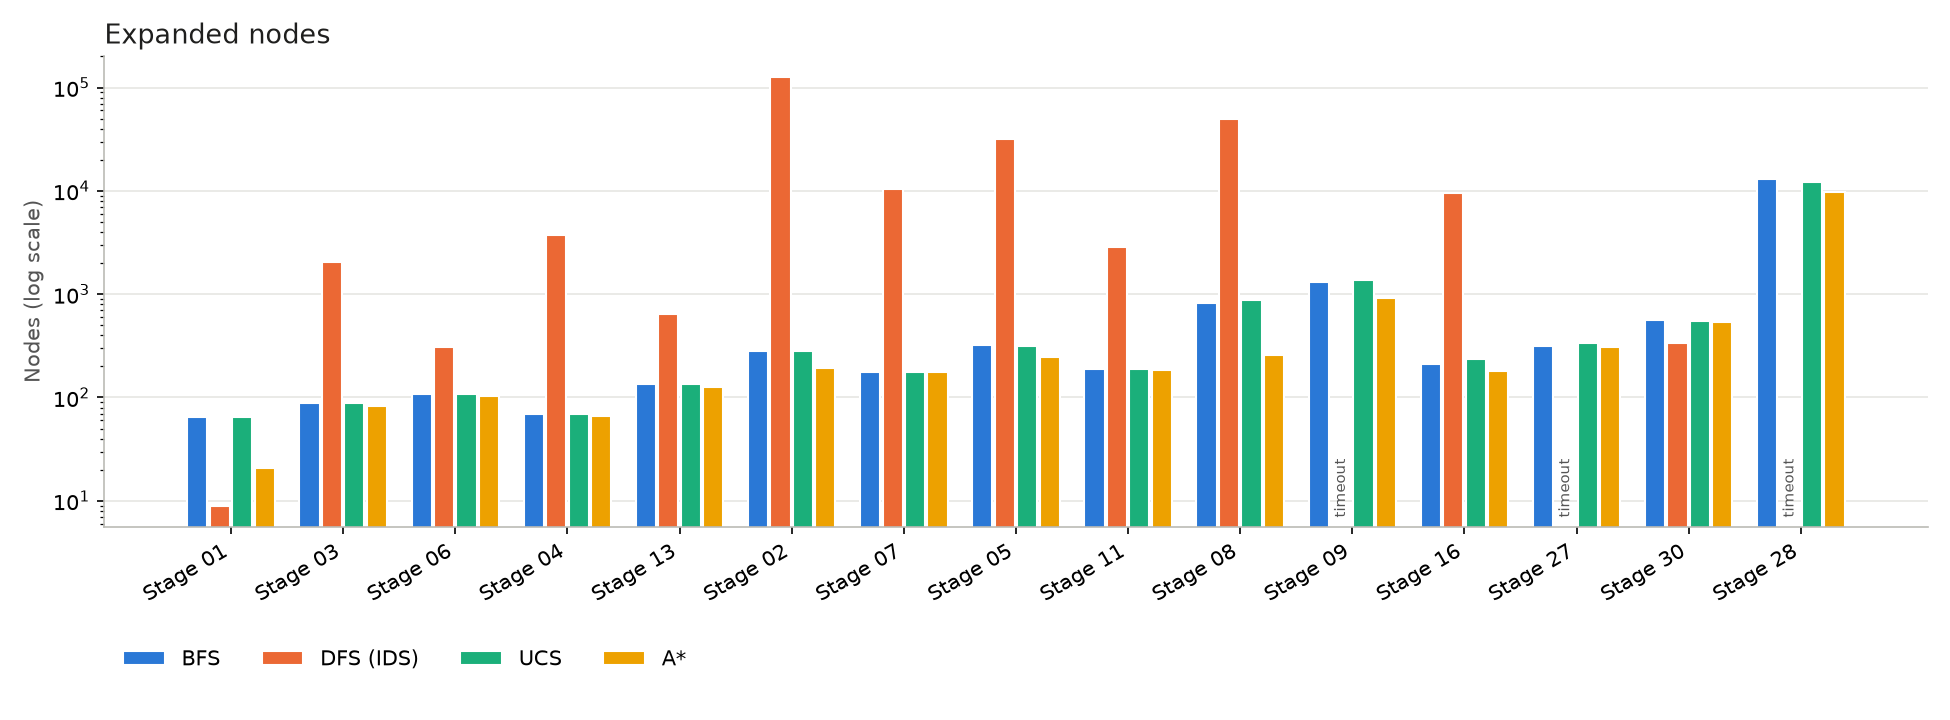
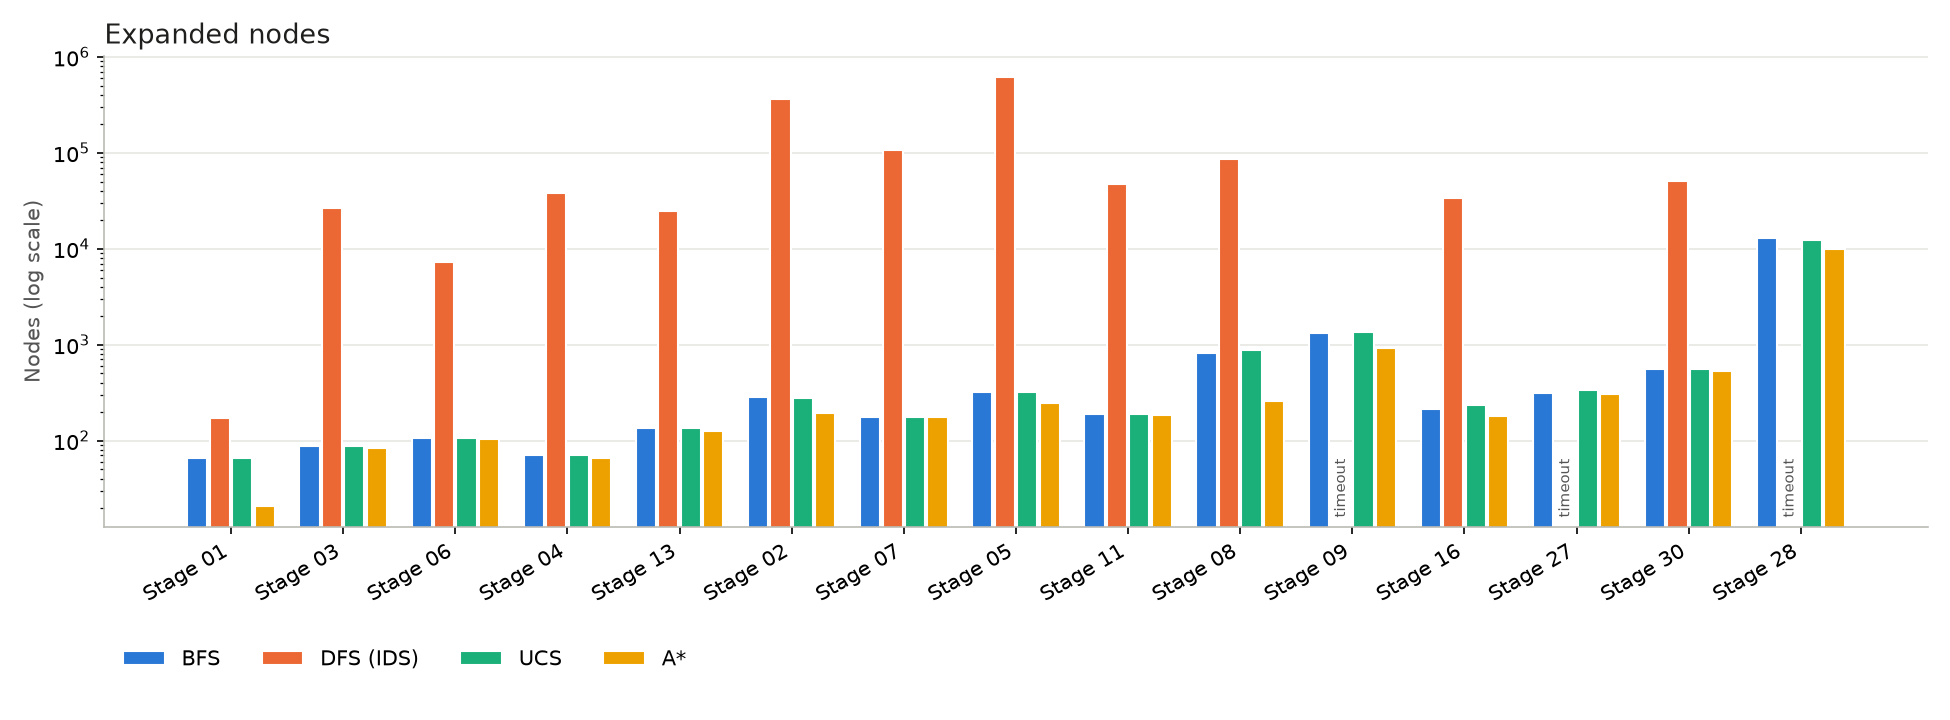
Fix IDS expanded count, update benchmark results

diff --git a/src/solvers/uninformed.py b/src/solvers/uninformed.py
@@ -80,7 +80,7 @@ class DFS(SearchSolver):
                                 g=node.g + cost,
                             )
                             stack.append((child, path_states | {next_state}))
-            return False, [], 0, 0.0
+            return False, [], expanded_nodes, 0.0
         return run_with_profiler(_ids)
 
 import heapq
